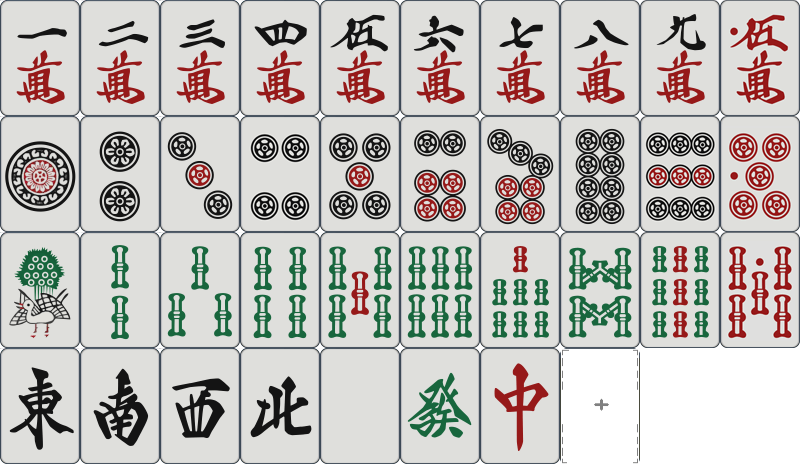
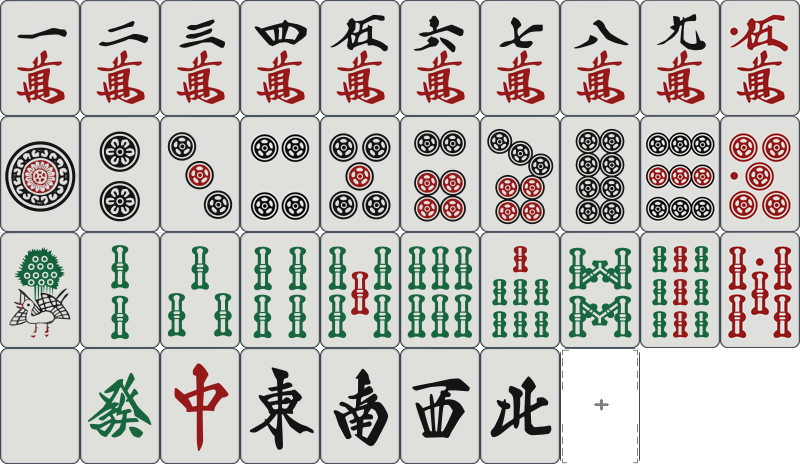
adding discard tiles graphics. adding discard constiterator class and wall constiterator class, adding tiles left counter graphics

Changed region(s): [[0.3125, 0.7845, 0.6875, 0.9655], [0.0, 0.7845, 0.1875, 0.9655], [0.2188, 0.7845, 0.2812, 0.9655]]

diff --git a/MahjongPlusPlus/Graphics.cpp b/MahjongPlusPlus/Graphics.cpp
@@ -15,9 +15,9 @@ void Graphics::drawBackground() {
 }
 
 void Graphics::drawHandTile(const Tile& tile, Vector2 position) {
-	Rectangle sourceRec = { (tile.getValue() - 1) * TILE_WIDTH,
-		static_cast<int>(tile.getSuit()) * TILE_HEIGHT,
-		TILE_WIDTH, TILE_HEIGHT};
+	Rectangle sourceRec = { (tile.getValue() - 1) * HAND_TILE_WIDTH,
+		static_cast<int>(tile.getSuit()) * HAND_TILE_HEIGHT,
+		HAND_TILE_WIDTH, HAND_TILE_HEIGHT};
 	DrawTextureRec(handTiles, sourceRec, position, WHITE);
 }
 void Graphics::drawHand(const Hand& hand) {
@@ -25,17 +25,17 @@ void Graphics::drawHand(const Hand& hand) {
 	if (hand.legalHandSize() < 14) {
 		for (int i = 0; i < hand.tilesNum(); i++) {
 			drawHandTile(hand[i],
-				{ HAND_POSITION.x + (i * TILE_WIDTH),
+				{ HAND_POSITION.x + (i * HAND_TILE_WIDTH),
 				HAND_POSITION.y});
 		}
 	}
 	else if (hand.legalHandSize() == 14) {
 		for (int i = 0; i < hand.tilesNum() - 1; i++) {
 			drawHandTile(hand[i],
-				{ HAND_POSITION.x + (i * TILE_WIDTH),
+				{ HAND_POSITION.x + (i * HAND_TILE_WIDTH),
 				HAND_POSITION.y});
 		}
-		drawHandTile(hand.lastTile(), { HAND_POSITION.x + (TILE_WIDTH * (HAND_SIZE - 1)) 
+		drawHandTile(hand.lastTile(), { HAND_POSITION.x + (HAND_TILE_WIDTH * (HAND_SIZE - 1)) 
 			+ DRAW_TILE_OFFSET,HAND_POSITION.y });
 	}
 }
@@ -47,19 +47,81 @@ void Graphics::clean() {
 }
 
 int Graphics::getTileIndexFromPosition(Vector2 position) {
-	if (position.x > HAND_POSITION.x + (TILE_WIDTH * (HAND_SIZE) + DRAW_TILE_OFFSET)
+	if (position.x > HAND_POSITION.x + (HAND_TILE_WIDTH * (HAND_SIZE) + DRAW_TILE_OFFSET)
 		|| position.x < HAND_POSITION.x) {
 		return -1;
 	}
-	if (position.x > HAND_POSITION.x + (TILE_WIDTH * (HAND_SIZE - 1)) && 
-		position.x < HAND_POSITION.x + (TILE_WIDTH * (HAND_SIZE - 1)) + DRAW_TILE_OFFSET){
+	if (position.x > HAND_POSITION.x + (HAND_TILE_WIDTH * (HAND_SIZE - 1)) && 
+		position.x < HAND_POSITION.x + (HAND_TILE_WIDTH * (HAND_SIZE - 1)) + DRAW_TILE_OFFSET){
 		return -1;
 	}
-	if (position.y > HAND_POSITION.y + TILE_HEIGHT || position.y < HAND_POSITION.y){
+	if (position.y > HAND_POSITION.y + HAND_TILE_HEIGHT || position.y < HAND_POSITION.y){
 		return -1;
 	}
-	if (position.x > HAND_POSITION.x + (TILE_WIDTH * (HAND_SIZE - 1))) {
+	if (position.x > HAND_POSITION.x + (HAND_TILE_WIDTH * (HAND_SIZE - 1))) {
 		return (HAND_SIZE - 1);
 	} 
-	return static_cast<int>((position.x - HAND_POSITION.x) / TILE_WIDTH);
+	return static_cast<int>((position.x - HAND_POSITION.x) / HAND_TILE_WIDTH);
+}
+
+void Graphics::drawDiscardTile(const Tile& tile, Vector2 position, float orientation) {
+	Rectangle sourceRec = { (tile.getValue() - 1) * DISCARD_TILE_WIDTH,
+		static_cast<int>(tile.getSuit()) * DISCARD_TILE_HEIGHT,
+		DISCARD_TILE_WIDTH, DISCARD_TILE_HEIGHT };
+	Rectangle destRec = { position.x,position.y,DISCARD_TILE_WIDTH,DISCARD_TILE_HEIGHT };
+	DrawTexturePro(discardTiles, sourceRec, destRec, { 0,0 }, orientation, WHITE);
+}
+
+
+void Graphics::drawDiscardPile(const Discards& discards, Wind playerWind, Wind discardsWind) {
+	int relativePosition = (static_cast<int>(playerWind)
+		- static_cast<int>(discardsWind) + PLAYERS_NUM) % PLAYERS_NUM;
+	switch (relativePosition) {
+	case 0: {
+		int i = 0;
+		for (const auto& tile : discards) {
+			drawDiscardTile(tile, { FRONT_DISCARD_PILE.x +
+			((i % TILES_IN_ROW) * DISCARD_TILE_WIDTH) ,FRONT_DISCARD_PILE.y +
+				(i / TILES_IN_ROW) * DISCARD_TILE_HEIGHT }, FRONT_ORIENTATION);
+			i++;
+		}
+		break;
+	}
+	case 1: {
+		int i = 0;
+		for (const auto& tile : discards) {
+			drawDiscardTile(tile, { LEFT_DISCARD_PILE.x -
+			((i / TILES_IN_ROW) * DISCARD_TILE_HEIGHT) ,LEFT_DISCARD_PILE.y +
+				(i % TILES_IN_ROW) * DISCARD_TILE_WIDTH }, LEFT_ORIENTATION);
+			i++;
+		}
+		break;
+	}
+	case 2: {
+		int i = 0;
+		for (const auto& tile : discards) {
+			drawDiscardTile(tile, { TOP_DISCARD_PILE.x -
+			((i % TILES_IN_ROW) * DISCARD_TILE_WIDTH) ,TOP_DISCARD_PILE.y -
+				(i / TILES_IN_ROW) * DISCARD_TILE_HEIGHT }, TOP_ORIENTATION);
+			i++;
+		}
+		break;
+	}
+	case 3: {
+		int i = 0;
+		for (const auto& tile : discards) {
+			drawDiscardTile(tile, { RIGHT_DISCARD_PILE.x +
+			((i / TILES_IN_ROW) * DISCARD_TILE_HEIGHT) ,RIGHT_DISCARD_PILE.y -
+				(i % TILES_IN_ROW) * DISCARD_TILE_WIDTH }, RIGHT_ORIENTATION);
+			i++;
+		}
+		break;
+	}
+	}
+}
+
+void Graphics::drawTilesLeft(int tilesLeft) {
+	std::string str = "Tiles left: " + std::to_string(tilesLeft);
+	DrawText(str.c_str(),TILES_COUNTER_POSITION.x, TILES_COUNTER_POSITION.y,
+		TILES_COUNTER_SIZE, BLACK);
 }

diff --git a/MahjongPlusPlus/Graphics.h b/MahjongPlusPlus/Graphics.h
@@ -5,7 +5,7 @@
 #include "Tile.h"
 #include "Discards.h"
 #include "GameTypes.h"
-
+#include <string>
 
 class Graphics {
 private:
@@ -16,11 +16,25 @@ private:
 public:
 	static constexpr int SCREEN_WIDTH = 1920;
 	static constexpr int SCREEN_HEIGHT = 1080;
-	static constexpr int TILE_WIDTH = 80;
-	static constexpr int TILE_HEIGHT = 129;
+	static constexpr int HAND_TILE_WIDTH = 80;
+	static constexpr int HAND_TILE_HEIGHT = 129;
 	static constexpr int HAND_SIZE = 14;
 	static constexpr Vector2 HAND_POSITION = { 340,900 };
 	static constexpr int DRAW_TILE_OFFSET = 20;
+	static constexpr int PLAYERS_NUM = 4;
+	static constexpr int DISCARD_TILE_WIDTH = 80;
+	static constexpr int DISCARD_TILE_HEIGHT = 116;
+	static constexpr float FRONT_ORIENTATION = 0.0f;
+	static constexpr float RIGHT_ORIENTATION = 270.0f;
+	static constexpr float TOP_ORIENTATION = 180.0f;
+	static constexpr float LEFT_ORIENTATION = 90.0f;
+	static constexpr Vector2 FRONT_DISCARD_PILE = { 700,545 };
+	static constexpr Vector2 RIGHT_DISCARD_PILE = { 1280,720 };
+	static constexpr Vector2 TOP_DISCARD_PILE = { 1180,400 };
+	static constexpr Vector2 LEFT_DISCARD_PILE = { 600,240 };
+	static constexpr int TILES_IN_ROW = 6;
+	static constexpr Vector2 TILES_COUNTER_POSITION = { 700,480 };
+	static constexpr int TILES_COUNTER_SIZE = 50;
 	
 
 
@@ -30,7 +44,8 @@ public:
 	void drawHandTile(const Tile& tile,Vector2 position);
 	void drawHand(const Hand& hand);
 	static int getTileIndexFromPosition(Vector2 position);
-	/*void drawHand(const Hand& hand);
-	void drawDiscardPile(const Discards& discard, Wind playerWind, Wind discardsWind);*/
+	void drawDiscardTile(const Tile& tile, Vector2 position,float orienation);
+	void drawDiscardPile(const Discards& discards, Wind playerWind, Wind discardsWind);
 	void clean();
+	void drawTilesLeft(int tilesLeft);
 };

diff --git a/MahjongPlusPlus/main.cpp b/MahjongPlusPlus/main.cpp
@@ -16,16 +16,18 @@
 int main() {
     InitWindow(1920, 1080, "Riichi Mahjong Engine - Test");
     SetTargetFPS(60);
+   
     Game game(std::make_unique<Player>(), std::make_unique<Player>()
     ,std::make_unique<Player>(), std::make_unique<Player>());
     Graphics graphics;
     graphics.init();
     game.dealInitTiles();
+    game.dictateWinds();
     InputManager inputManager(game);
     
-   /* Hand test_hand = Debug::handFromCodes
-    ("3p", "1p", "1p", "2p", "3p", "3p", "4p", "5p", "6p", "7p", "8p", "9p", "9p", "9p");*/
-    /*std::cout << test_hand;
+  /*  Hand test_hand = Debug::handFromCodes
+    ("3p", "1p", "1p", "2p", "3p", "3p", "4p", "5p", "6p", "7p", "8p", "9p", "9p", "9p");
+    std::cout << test_hand;
     std::vector<std::unique_ptr<Meld>> melds;
     melds.push_back(Debug::pon("1p"));
     melds.push_back(Debug::ankan("1s"));
@@ -46,7 +48,20 @@ int main() {
         ClearBackground(RAYWHITE);
         graphics.drawBackground();
         graphics.drawHand(((game.getPlayer(0)).getHand()));
+        graphics.drawDiscardPile(game.getPlayer(0).getDiscards(), 
+            game.getPlayer(0).getWind(), game.getPlayer(0).getWind());
+
+        graphics.drawDiscardPile(game.getPlayer(1).getDiscards(),
+            game.getPlayer(0).getWind(), game.getPlayer(1).getWind());
+
+        graphics.drawDiscardPile(game.getPlayer(2).getDiscards(),
+            game.getPlayer(0).getWind(), game.getPlayer(2).getWind());
+
+        graphics.drawDiscardPile(game.getPlayer(3).getDiscards(),
+            game.getPlayer(0).getWind(), game.getPlayer(3).getWind());
         game.update();
+
+        graphics.drawTilesLeft(game.getTilesLeft());
 
         int clickedIndex = inputManager.tileIndexFromClick();
         if (clickedIndex != -1) {

diff --git a/MahjongPlusPlus/Wall.cpp b/MahjongPlusPlus/Wall.cpp
@@ -24,7 +24,7 @@ int Wall::tilesLeft() const{
 }
 Tile Wall::draw() {
 	if (tilesLeft() <= 0) {
-		throw emptyWall();
+ 		throw emptyWall();
 	}
 	
 	return wall[tail--];
@@ -55,4 +55,25 @@ const Tile& Wall::uraDora(int index) const{
 		throw invalidUraDora();
 	}
 	return deadWall[URA_ID + index];
+}
+
+//ConstIterator class:
+Wall::ConstIterator::ConstIterator(const Tile* tile): tile(tile) {}
+
+const Tile& Wall::ConstIterator::operator*() const {
+	return *tile;
+}
+Wall::ConstIterator& Wall::ConstIterator::operator++() {
+	tile++;
+	return *this;
+}
+bool Wall::ConstIterator::operator!=(const ConstIterator& other) const {
+	return (tile != other.tile);
+}
+
+Wall::ConstIterator Wall::begin() const {
+	return Wall::ConstIterator(&wall[head]);
+}
+Wall::ConstIterator Wall::end() const {
+	return Wall::ConstIterator((& wall[tail]) + 1);
 }

diff --git a/MahjongPlusPlus/Game.cpp b/MahjongPlusPlus/Game.cpp
@@ -27,6 +27,7 @@ const Player& Game::getPlayer(int index) const {
 }
 
 void Game::update(){
+	
 	switch (state) {
 	case GameState::WAITING_FOR_INPUT:
 		break;
@@ -56,4 +57,19 @@ void Game::update(){
 void Game::playerMoveFromInput(int index) {
 	players[0]->Discard(index);
 	state = GameState::P2_TURN;
+}
+
+void Game::dictateWinds() {
+	std::random_device rd;
+	std::mt19937 g(rd());
+	std::array<int, 4> order = {0,1,2,3};
+	std::shuffle(order.begin(), order.end(), g);
+	players[order[0]]->setWind(Wind::EAST);
+	players[order[1]]->setWind(Wind::SOUTH);
+	players[order[2]]->setWind(Wind::WEST);
+	players[order[3]]->setWind(Wind::NORTH);
+}
+
+int Game::getTilesLeft() const {
+	return wall.tilesLeft();
 }

diff --git a/MahjongPlusPlus/Discards.cpp b/MahjongPlusPlus/Discards.cpp
@@ -19,3 +19,22 @@ void Discards::riichi() {
 	riichiTileId = static_cast<int>(tiles.size()) - 1;
 }
 
+Discards::ConstIterator::ConstIterator(const Tile* tile) : tile(tile) {}
+
+const Tile& Discards::ConstIterator::operator*() const {
+	return *tile;
+}
+Discards::ConstIterator& Discards::ConstIterator::operator++() {
+	tile++;
+	return *this;
+}
+bool Discards::ConstIterator::operator!=(const ConstIterator& other) const {
+	return (tile != other.tile);
+}
+
+Discards::ConstIterator Discards::begin() const {
+	return Discards::ConstIterator(tiles.data());
+}
+Discards::ConstIterator Discards::end() const {
+	return Discards::ConstIterator(tiles.data() + tiles.size());
+}

diff --git a/MahjongPlusPlus/Discards.h b/MahjongPlusPlus/Discards.h
@@ -18,6 +18,23 @@ public:
 	//sets current last tile index to be the riichi tile
 	void riichi();
 
+	//ConstIterator 
+	class ConstIterator {
+	private:
+		const Tile* tile;
+	public:
+		ConstIterator(const Tile* tile);
+		const Tile& operator*() const;
+		ConstIterator& operator++();
+		bool operator!=(const ConstIterator& other) const;
+	};
+
+	ConstIterator begin() const;
+	ConstIterator end() const;
+
+
+
+	//exception
 	class emptyDiscardsPile : public std::exception {
 	public:
 		const char* what() const noexcept override {

diff --git a/MahjongPlusPlus/Wall.h b/MahjongPlusPlus/Wall.h
@@ -47,6 +47,25 @@ public:
 	//read only access to ura dora tiles by index [0,doraNum - 1]
 	
 
+	//constIterator class:
+	class ConstIterator {
+	private:
+		const Tile* tile;
+	public:
+		ConstIterator(const Tile* tile);
+		const Tile& operator*() const;
+		ConstIterator& operator++();
+		bool operator!=(const ConstIterator& other) const;
+	};
+
+	ConstIterator begin() const;
+	ConstIterator end() const;
+
+
+
+
+
+
 	//exceptions:
 	class emptyWall : public std::exception{
 	public:

diff --git a/MahjongPlusPlus/Game.h b/MahjongPlusPlus/Game.h
@@ -14,7 +14,7 @@ enum class GameState {
 	P1_TURN,
 	P2_TURN,
 	P3_TURN,
-	P4_TURN
+	P4_TURN,
 };
 
 class Game {
@@ -30,8 +30,10 @@ public:
 		std::unique_ptr<Player> p3,
 		std::unique_ptr<Player> p4);
 	const Player& getPlayer(int index) const;
+	void dictateWinds();
 	void dealInitTiles();
 	void update();
 	void playerMoveFromInput(int index);
+	int getTilesLeft() const;
 
 };

diff --git a/MahjongPlusPlus/Player.h b/MahjongPlusPlus/Player.h
@@ -35,6 +35,8 @@ public:
 	void Discard(int index);
 	void sortHand();
 	const Hand& getHand() const;
+	const Discards& getDiscards() const;
+	const Wind& getWind() const;
 
 	/*std::vector<MoveOption> riichiOptions() const;
 	std::vector<MoveOption> ponOptions(Tile discardedTile) const;

diff --git a/MahjongPlusPlus/Player.cpp b/MahjongPlusPlus/Player.cpp
@@ -65,6 +65,14 @@ const Hand& Player::getHand() const {
 	return hand;
 }
 
+const Discards& Player::getDiscards() const {
+	return discards;
+}
+
+const Wind& Player::getWind() const {
+	return wind;
+}
+
 
 //void Player::Draw(Wall& wall){}
 //bool tenpai();
